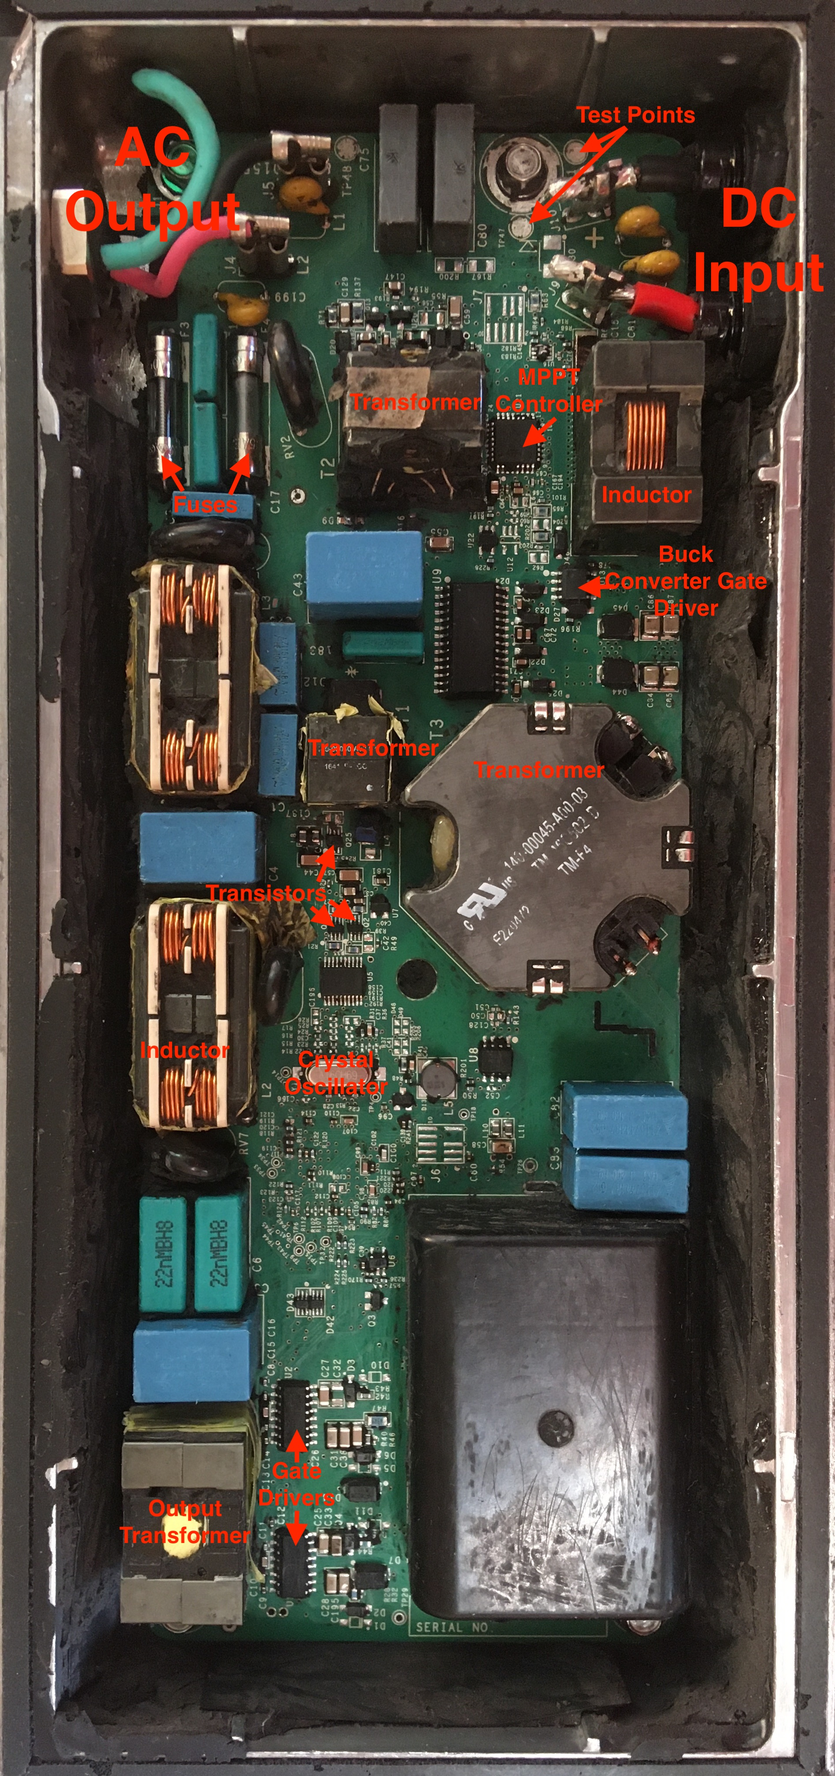
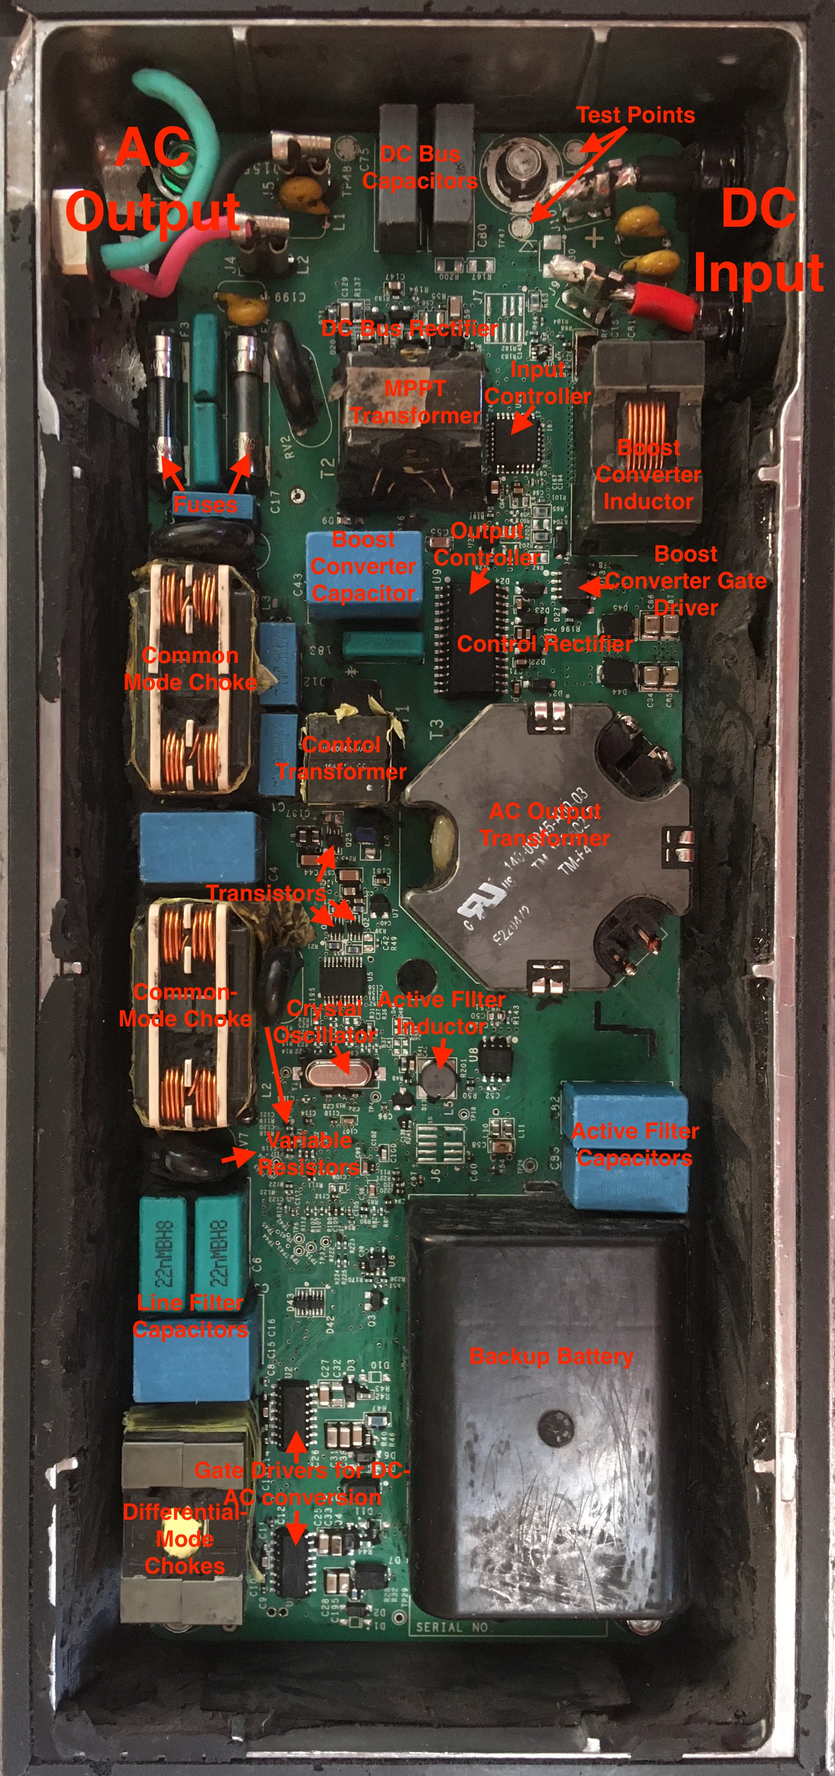
microinverter writeup

diff --git a/teardowns/microinverter.html b/teardowns/microinverter.html
@@ -19,18 +19,18 @@
 <hr>
 <section>
 	<h3>Introduction</h3>
-	<p>&emsp;&emsp;My parents recently installed solar panels on their roof to transistion to renewable energy use while at the same time breaking their dependence on the grid for energy supply. To power the house with solar energy required microinverters and a battery in addition to the solar panels. The primary function of the microinverters is to convert the DC power coming from each panel into AC power that can be used in the house circuits. The battery allows energy to be stored when more energy is produced by the panels than is used in the house. When one of the Sunpower MI-C-320-US208/240-00 Microinverters failed on my parents roof, I had the opportunity to crack it open and try to understand how it worked.</p> 
+	<p>&emsp;&emsp;My parents recently installed solar panels on their roof to transistion to renewable energy use while at the same time breaking their dependence on the grid for energy supply. In addition to solar panels, microinverters for each solar panel and a centralized battery are required to run the house off of solar energy. The primary function of the microinverters is to convert the low voltage DC power coming from each panel into high voltage AC power that can be used in the house circuits. The battery allows energy to be stored when more energy is produced by the panels than is used in the house. When one of the Sunpower MI-C-320-US208/240-00 Microinverters failed on my parents roof, I had the opportunity to crack it open and try to understand how it worked.</p> 
 	<img src="../images/teardowns/microinverter/front.jpg" alt="Gray Metal Box with SUNPOWER Logo" class="center">
 	<p class="label">Front View</p>
 	<img src="../images/teardowns/microinverter/label.jpg" alt="Product Label on Back of Microinverter" class="center">
 	<p class="label">Back View</p>
-	<p>&emsp;&emsp;Before I get into the teardown, I'd like to discuss a bit of the history of how microinverters came to be and what other products are used as alternatives based on some quick internet searches I did. Any solar energy system includes some kind of inverter to convert the DC output of the panel to the AC input used in power lines, homes, and appliances. Inverters accomplish this conversion from DC to AC through a series of switches (IGBTs) that are rapidly opened and closed with Pulse Width Modulation (PWM) by a controller IC imitating the sinusoidal nature of alternating current. When solar panels first came about commercially, the energy was converted from AC to DC using string inverters. Several solar panels would be connected together through linking wires, forming a "string" of solar panels, and then fed into one centralized inverter unit. Daisy-chaining the solar panels in this fashion makes for easy installation, but when the output of one solar panel in the string is lowered, all the rest in the string are limited by that weakest link. To combat this issue, power optimizers can be placed on each panel to modulate the DC power output of each panel so that they can function at their highest output independent of the output of others in the string. The power optimizers on each panel also allow one to monitor the output of individual panels rather than just the output of the whole string. Despite these improvements, power optimizers still require the use of a centralized inverter which limits the size of the solar panel array that can be used and introduces a central point of failure capable of shutting down all system functionality. Adding an inverter unit under each solar panel&mdash;microinverters&mdash;addresses these problems at the expense of higher part and installation costs. String inverters, inverters with power optimizers, and microinverters each provide different benefits and so the decision of which to use is often left to the user with recommendations provided based on their particular application.</p>
+	<p>&emsp;&emsp;Before I get into the teardown, I'd like to discuss a bit of the history of how microinverters came to be and what other products are used as alternatives based on some quick internet searches I did. Any solar energy system includes some kind of inverter to convert the DC output of the panel to the AC input used in power lines, homes, and appliances. Inverters accomplish this conversion from DC to AC fundamentally through a series of electrically controlled switches (usually IGBTs) that are rapidly opened and closed over intervals oscillitating in length (i.e Pulse Width Modulation (PWM)) imitating the sinusoidal nature of alternating current. When solar panels first came about commercially, the energy was converted from AC to DC using string inverters. Several solar panels would be connected together through linking wires, forming a "string" of solar panels, and then fed into one centralized inverter unit. Daisy-chaining the solar panels in this fashion makes for easy installation, but when the output of one solar panel in the string is lowered, all the rest in the string are limited by that weakest link. To combat this issue, power optimizers can be placed on each panel to modulate the DC power output of each panel so that they can function at their highest output independent of the output of others in the string. The power optimizers on each panel also allow one to monitor the output of individual panels rather than just the output of the whole string. Despite these improvements, power optimizers still require the use of a centralized inverter which limits the size of the solar panel array that can be used and introduces a central point of failure capable of shutting down all system functionality. Adding an inverter unit under each solar panel&mdash;microinverters&mdash;addresses these problems at the expense of higher part and installation costs. String inverters, inverters with power optimizers, and microinverters each provide different benefits and so the decision of which to use is often left to the user with recommendations provided based on their particular application.</p>
 </section>
 <hr>
 <section>
 	<h3>Potting Compound</h3>
-	<p>&emsp;&emsp;Although I had heard of NEMA ratings before this teardown in describing how well smart phones were sealed, the experience of opening up this microinverter gave me a much greater appreciation for what exactly it means to seal electronics. The National Electrical Manufacturers Association (NEMA) develops standards for the manufacture of electronics. One such standard (NEMA Standard 250) is used to categorize the performance of electircal enclosures against environmental effects such as dirt and moisture. Based on an online seller for this product, the microinverter has a NEMA Enclosure Rating of NEMA 1, the lowest on the rating scale. At this level, the microinverter enclosure is expected to protect people from any hazardous parts that may be contained inside and prevent any solids like dirt from entering the enclosure in indoor environments. This hardly seems like an appropriate rating for a product that will be sitting on the roof exposed to blowing dirt, rain, and hot sunshine. Diassembling the product seemed to reaffirm that this product deserved a much higher NEMA Enclosure Rating than had been given by the online seller.</p>
-	<p>&emsp;&emsp;The first step in the diassembly was removing the metal back cover secured by ten metal tabs mated to slots on the body. This alone would have likely been sufficient for a NEMA 1 rating. Underneath the metal cover lay a thick plastic sheet that I was able to peel back using just my fingers. What lay below shocked me. The entire PCA had been submerged in a potting compound having the consistency of rubber and a sweet fruity odor. Being completely submerged in this rubber-like compound in what is called a hermetic (airtight) seal, it's hard to imagine what could damage the circuit board except maybe an explosion. It was then that I learned how I long this teardown would take if I wanted to get an idea for how the microinverter worked. Using a flathead screwdriver, pair of needle nose pliers, and a box cutter I (with help from my dad from time to time) removed as much of the potting compound as possible to expose the printed circuit assembly (PCA) that lay underneath.</p>
+	<p>&emsp;&emsp;Although I had heard of NEMA ratings before this teardown in describing how well smart phones were sealed, the experience of opening up this microinverter gave me a much greater appreciation for what exactly it means to seal electronics. The National Electrical Manufacturers Association (NEMA) develops standards for the manufacture of electronics. One such standard (NEMA Standard 250) is used to categorize the performance of electircal enclosures against environmental contaminants such as dirt and moisture. Based on an online seller for this product, the microinverter has a NEMA Enclosure Rating of NEMA 1, the lowest on the rating scale. At this level, the microinverter enclosure is only expected to protect people from any hazardous parts that may be contained inside and prevent any solids like dirt from entering the enclosure in indoor environments. This hardly seems like an appropriate rating for a product that will be sitting on the roof exposed to windswept dust, rain, and hot sunshine. Diassembling the product seemed to reaffirm that this product deserved a much higher NEMA Enclosure Rating than had been given by the online seller.</p>
+	<p>&emsp;&emsp;The first step in the diassembly was removing the metal back cover secured by ten metal tabs mated to slots on the body. This alone would have likely been sufficient for a NEMA 1 rating. Underneath the metal cover lay a thick plastic sheet that I was able to peel back using just my fingers. What lay below shocked me. The entire printed circuit assembly (PCA) had been submerged in a potting compound having the consistency of rubber and a sweet fruity odor. Being completely submerged in this rubber-like compound, the microinverter PCA was hermetically (airtight) sealed. It's hard to imagine what could damage the circuit board except maybe an explosion. It was then that I learned how long this teardown would take if I wanted to get an idea for how the microinverter worked. Using a flathead screwdriver, pair of needle nose pliers, and a box cutter I (with help from my dad from time to time) removed as much of the potting compound as possible to expose the PCA that lay underneath.</p>
 	<img src="../images/teardowns/microinverter/opened.jpg" alt="Microinverter Backing Removed Exposing Black Plastic Sheet on Interior" class="center">
 	<p class="label">Sealed Microinverter PCA</p>
 	<img src="../images/teardowns/microinverter/peeledSheet.jpg" alt="Black Plastic Sheet Pulled Back Revealing Potting Compound" class="center">
@@ -39,15 +39,50 @@
 	<p class="label">PCA Components Partially Exposed From Excavation</p>
 	<img src="../images/teardowns/microinverter/exploded.jpg" alt="Backing, Plastic Sheet, Potting Compound (bagged for cleanliness), and Exposed PCA" class="center">
 	<p class="label">Exploded View with PCA Fully Exposed</p>
-	<p>&emsp;&emsp;Hoping to find more information about how the microinverter worked, I scanned through Sunpower's AC module (used synonymously with microinverter I think in this case) patents&mdash;for which they had provided a link on the back cover of the microinverter. Most of the patents appeared to focus on the circuit schematics of the microinverter, but one included sketches of the physical structure of one of their microinverters, albeit an older and substantially different looking model. Nonetheless, they discussed the potting process somewhat and I found it interesting that they mentioned the potting compound electrically insulates components from one another in addition to protecting the board from environmental effects. I imagine overheating is also a major concern when submerging boards in a thick insulating potting compound as the electrical components cannot release as quickly as when they are exposed to just air. The patent, linked <a href="https://pdfpiw.uspto.gov/.piw?PageNum=0&docid=08964401&IDKey=C0C1D993DA4B%0D%0A&HomeUrl=http%3A%2F%2Fpatft.uspto.gov%2Fnetacgi%2Fnph-Parser%3FSect1%3DPTO1%2526Sect2%3DHITOFF%2526d%3DPALL%2526p%3D1%2526u%3D%25252Fnetahtml%25252FPTO%25252Fsrchnum.htm%2526r%3D1%2526f%3DG%2526l%3D50%2526s1%3D8%2C964%2C401.PN.%2526OS%3DPN%2F8%2C964%2C401%2526RS%3DPN%2F8%2C964%2C401">here</a>, mentioned that electrical components likely to release a lot of heat could be partially exposed or connected to heat sinks exposed to the surface.</p>
+	<p>&emsp;&emsp;Hoping to find more information about how the microinverter worked, I scanned through Sunpower's AC module (used synonymously with microinverter I think in this case) patents&mdash;for which they had provided a link on the back cover of the microinverter. Most of the patents appeared to focus on the circuit schematics of the microinverter, but one included sketches of the physical structure of one of their microinverters, albeit an older and substantially different looking model. Nonetheless, they discussed the potting process somewhat and I found it interesting that they mentioned the potting compound electrically insulates components from one another in addition to protecting the board from environmental effects. I imagine overheating is also a major concern when submerging boards in a thick insulating potting compound as the electrical components cannot release heat as quickly as when they are exposed to just air. The patent, linked <a href="https://pdfpiw.uspto.gov/.piw?PageNum=0&docid=08964401&IDKey=C0C1D993DA4B%0D%0A&HomeUrl=http%3A%2F%2Fpatft.uspto.gov%2Fnetacgi%2Fnph-Parser%3FSect1%3DPTO1%2526Sect2%3DHITOFF%2526d%3DPALL%2526p%3D1%2526u%3D%25252Fnetahtml%25252FPTO%25252Fsrchnum.htm%2526r%3D1%2526f%3DG%2526l%3D50%2526s1%3D8%2C964%2C401.PN.%2526OS%3DPN%2F8%2C964%2C401%2526RS%3DPN%2F8%2C964%2C401">here</a>, mentioned that electrical components likely to release a lot of heat could be partially exposed or connected to heat sinks exposed to the surface to ensure they don't overheat.</p>
 </section>
 <hr>
 <section>
 	<h3>Microinverter PCA</h3>
-	<p>&emsp;&emsp;Blue, green, and gray boxes are film capacitors. Yellow capacitors by DC input and AC output are likely also film capacitors, although the disk shape made me think of ceramic disk capacitors (but they're not glossy). First controller and transformer likely involved in maximum power point tracking to ensure that the maximum power is extract from the solar panel. Where is the inverter stage where the DC is actually converted to AC? There are likely other components on the bottom of the board like the transistors used to convert DC to AC and modulate the voltage output of the MPPT transformer. Maybe one power transformer to maximize power draw from solar panel, another to lower the voltage to power controllers on board, and another to raise the voltage to 120 V for AC release. Black square is probably a microcontroller, black rectangles are probably gate drivers used to raise the low-power input from a controller IC to a high-current drive input for the gate of a high-power transistor (like an IGPT or power MOSFET).</p>
-	<p>&emsp;&emsp;DC power enters the microinverter unit between 12 and 80 V. The voltage and thus current draw from the solar panels is adjusted continuosly to maximize the power output since the relationship between power (the product of voltage and current) is not linearly related to the voltage for solar panels. Instead, a voltage exists for which the maximum amount of power can be drawn from the solar panels. This process is called maximum power point tracking and requires a controller IC to monitor the power output and adjusts the voltage of a DC-DC buck converter (transformer wouldn't work for AC). The black disk likes pieces labeled RV are variable resistors. The RU logo is the "recognized component mark" used by Underwriters Laboratories (UL), a engineering safety certification company, to indicate the parts labeled meet certain quality standards. It appears that there are inductors at the power connections for the AC output, I'm not sure why.</p>
-	<img src="../images/teardowns/microinverter/PCA.jpg" alt="Close-up View of PCA" class="center">
+	<p>&emsp;&emsp;Using the silkscreen PCB labels, patent schematics, and online resources for power electronics I did my best to identify the important components of this microinverter PCA. With that being said, the labels in the picture below are merely educated guesses. I've had no formal training in electrical engineering. Furthermore, I'm missing a large chunk of information since I wasn't able to easily remove the board and examine the components mounted on the underside.</p>
+	<img src="../images/teardowns/microinverter/PCA copy.jpg" alt="Close-up View of PCA" class="center">
 	<p class="label">Microinverter PCA</p>
+	<p>&emsp;&emsp;There's a lot happening on this PCB, but some generalizations can be made across the board. The blue, green, and gray plastic boxes are likely film capacitors. The yellow disc-like nubs at both the DC input and AC input are also capacitors, although I'm not sure what kind. The metals blocks with exposed copper wiring are fundamentally just large inductors or sets of inductors. These inductors include the blocks labelled inductor, transformer, and choke. The compact black boxes with many pinouts are integrated circuits (ICs), but what function they serve is not easily evident from the outside. I guessed their functionalities based on their size and relative locations on the board. The large black box in the bottom right didn't appear to be labeled. Any number of things could be hidden under the enclosure, but given it's heft I guessed it might be a backup battery. I'm guessing this backup battery is used when the solar panel isn't producing any energy and the microinverter wants to continue communicating with the centralized power distribution system to tell it that the microinverter is still functioning properly despite it not producing any energy. This hypothesis was inspired by the fact that the people who replaced the inverter stated that they had received notice from the microinverter that it had failed. One thing that I saw that I hadn't seen before were test points (silkscreen labeled TP). Test points are conductive discs on the PCB where someone could stick a multimeter probe to take measurements, likely for quality assurance purposes. Beyond that, there are tons of tiny surface mount capacitors, resistors, diodes, transistors, and ICs.</p>
+	<p>&emsp;&emsp;Looking at the PCA gives us some idea of what components play a role in the microinverter operation, but it doesn't tell us how the product works. To understand this, I went to the patent material for this microinverter and supplemented this with internet searches on power electronics concepts. Generally, the functionality of the microinverter can be split into two stages: input processing and output processing.</p>
+	<img src="../images/teardowns/microinverter/bigPicture.png" alt="Close-up View of PCA" class="center">
+	<p class="label">Big Picture Block Diagram of Microinverter (US 8,284,574)</p>
+	<h4>Input Processing</h4>
+	<p>&emsp;&emsp;</p>
+	<img src="../images/teardowns/microinverter/inputStepsCircuit.png" alt="Close-up View of PCA" class="center">
+	<p class="label">Input Processing Steps Circuit Diagram (US 8,284,574)</p>
+	<img src="../images/teardowns/microinverter/outputStepsCircuit.png" alt="Close-up View of PCA" class="center">
+	<p class="label">Output Processing Steps Circuit Diagram (US 8,284,574)</p>
+	<img src="../images/teardowns/microinverter/inputController.png" alt="Close-up View of PCA" class="center">
+	<p class="label">Input Converter Controller Block Diagram (US 8,284,574)</p>
+	<img src="../images/teardowns/microinverter/powerVoltageCurve.png" alt="Close-up View of PCA" class="center">
+	<p class="label">Power-Voltage Curve for a Shaded (dashed line) and Unshaded (solid line) Solar Panel (US 9,477,247)</p>
+	<img src="../images/teardowns/microinverter/inputInverter.png" alt="Close-up View of PCA" class="center">
+	<p class="label">Input Converter Block Diagram (US 8,279,642)</p>
+	<img src="../images/teardowns/microinverter/inputInverterCircuit.png" alt="Close-up View of PCA" class="center">
+	<p class="label">Input Converter Circuit Diagram (US 8,279,642)</p>
+	<img src="../images/teardowns/microinverter/boostConverter.png" alt="Close-up View of PCA" class="center">
+	<p class="label">Boost Converter Circuit</p>
+	<h4>Output Processing</h4>
+	<p>&emsp;&emsp;</p>
+	<img src="../images/teardowns/microinverter/inversionConceptCircuit.png" alt="Close-up View of PCA" class="center">
+	<p class="label">Inverter Circuit Diagram (US 8,508,964)</p>
+	<img src="../images/teardowns/microinverter/inversionConcept.png" alt="Close-up View of PCA" class="center">
+	<p class="label">Alternating Current Generated from PWM of DC Source Through Inductors (US 8,508,964)</p>
+	<img src="../images/teardowns/microinverter/outputController.png" alt="Close-up View of PCA" class="center">
+	<p class="label">Output Converter Controller Block Diagram (US 8,284,574)</p>
+	<img src="../images/teardowns/microinverter/outputConverter.png" alt="Close-up View of PCA" class="center">
+	<p class="label">Output Converter Block Diagram (US 8,279,642)</p>
+	<img src="../images/teardowns/microinverter/outputConverterCircuit1.png" alt="Close-up View of PCA" class="center">
+	<p class="label">Output Converter Circuit Diagram Part 1 (US 8,279,642)</p>
+	<img src="../images/teardowns/microinverter/outputConverterCircuit2.png" alt="Close-up View of PCA" class="center">
+	<p class="label">Output Converter Circuit Diagram Part 2 (US 8,279,642)</p>
+	<p>&emsp;&emsp;Blue, green, and gray boxes are film capacitors. Yellow capacitors by DC input and AC output are likely also film capacitors, although the disk shape made me think of ceramic disk capacitors (but they're not glossy). First controller and transformer likely involved in maximum power point tracking to ensure that the maximum power is extract from the solar panel. Where is the inverter stage where the DC is actually converted to AC? There are likely other components on the bottom of the board like the transistors used to convert DC to AC and modulate the voltage output of the MPPT transformer. Maybe one power transformer to maximize power draw from solar panel, another to lower the voltage to power controllers on board, and another to raise the voltage to 120 V for AC release. Black square is probably a microcontroller, black rectangles are probably gate drivers used to raise the low-power input from a controller IC to a high-current drive input for the gate of a high-power transistor (like an IGPT or power MOSFET).</p>
+	<p>&emsp;&emsp;DC power enters the microinverter unit between 12 and 80 V. The voltage and thus current draw from the solar panels is adjusted continuosly to maximize the power output since the relationship between power (the product of voltage and current) is not linearly related to the voltage for solar panels. Instead, a voltage exists for which the maximum amount of power can be drawn from the solar panels. This process is called maximum power point tracking and requires a controller IC to monitor the power output and adjusts the voltage of a DC-DC buck-boost converter (transformer wouldn't work for AC). The black disk likes pieces labeled RV are variable resistors. The RU logo is the "recognized component mark" used by Underwriters Laboratories (UL), a engineering safety certification company, to indicate the parts labeled meet certain quality standards. It appears that there are inductors at the power connections for the AC output, I'm not sure why. Talk about why the AC output has a neutral line while the DC input does not. Instead using a buck-boost converter, sometimes DC is converted to AC, then voltage changed with a transformer, and then rectified. Actually it looks more like a flyback transformer is used witha coupled inductor (similar but different to a transformer). Microinverter has to accomplish several goals: extract maximum power, step-up voltage, and convert to AC. Big hexagon transformer likely has multiple windings for different inductor ratios, but duty cycle could also be changed to change output voltage. Chokes are used to filter out noise (can be seen in schematic). Lots of noise produced during the inversion process when rapidly flipping on and off gates. Chokes come in two kinds: common mode (for two conductors) and differential mode (for one conductor). Good resource here <a href="https://info.triadmagnetics.com/blog/differential-vs-common-mode-chokes">link</a>. Maybe variable resistors are used to measure output signal to for feedback control purposes. Crystal oscillator likely used to make sure output signal is 60 Hz.</p>
 </section>
 </article>
 </main>
